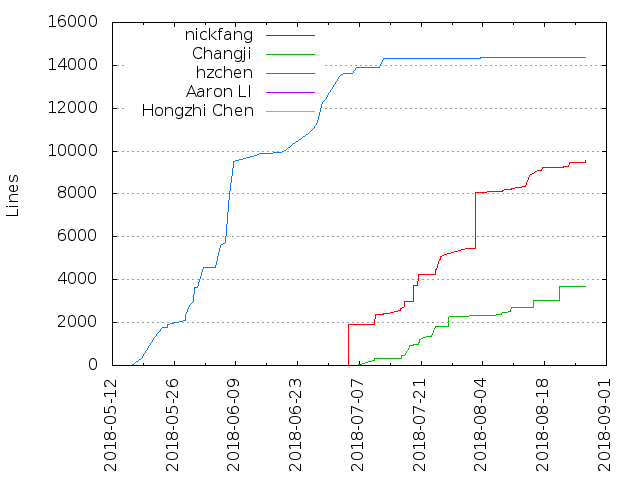
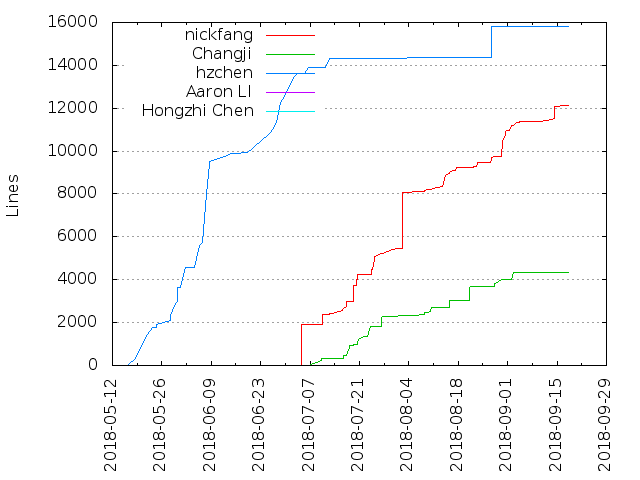
update log

diff --git a/gen/activity.html b/gen/activity.html
@@ -22,27 +22,27 @@
 
 <h2><a href="#weekly_activity" name="weekly_activity">Weekly activity</a></h2>
 
-<p>Last 32 weeks</p><table class="noborders"><tr><td style="text-align: center; vertical-align: bottom">0<div style="display: block; background-color: red; width: 20px; height: 1px"></div></td><td style="text-align: center; vertical-align: bottom">0<div style="display: block; background-color: red; width: 20px; height: 1px"></div></td><td style="text-align: center; vertical-align: bottom">0<div style="display: block; background-color: red; width: 20px; height: 1px"></div></td><td style="text-align: center; vertical-align: bottom">0<div style="display: block; background-color: red; width: 20px; height: 1px"></div></td><td style="text-align: center; vertical-align: bottom">0<div style="display: block; background-color: red; width: 20px; height: 1px"></div></td><td style="text-align: center; vertical-align: bottom">0<div style="display: block; background-color: red; width: 20px; height: 1px"></div></td><td style="text-align: center; vertical-align: bottom">0<div style="display: block; background-color: red; width: 20px; height: 1px"></div></td><td style="text-align: center; vertical-align: bottom">0<div style="display: block; background-color: red; width: 20px; height: 1px"></div></td><td style="text-align: center; vertical-align: bottom">0<div style="display: block; background-color: red; width: 20px; height: 1px"></div></td><td style="text-align: center; vertical-align: bottom">0<div style="display: block; background-color: red; width: 20px; height: 1px"></div></td><td style="text-align: center; vertical-align: bottom">0<div style="display: block; background-color: red; width: 20px; height: 1px"></div></td><td style="text-align: center; vertical-align: bottom">0<div style="display: block; background-color: red; width: 20px; height: 1px"></div></td><td style="text-align: center; vertical-align: bottom">0<div style="display: block; background-color: red; width: 20px; height: 1px"></div></td><td style="text-align: center; vertical-align: bottom">0<div style="display: block; background-color: red; width: 20px; height: 1px"></div></td><td style="text-align: center; vertical-align: bottom">0<div style="display: block; background-color: red; width: 20px; height: 1px"></div></td><td style="text-align: center; vertical-align: bottom">0<div style="display: block; background-color: red; width: 20px; height: 1px"></div></td><td style="text-align: center; vertical-align: bottom">5<div style="display: block; background-color: red; width: 20px; height: 33px"></div></td><td style="text-align: center; vertical-align: bottom">4<div style="display: block; background-color: red; width: 20px; height: 26px"></div></td><td style="text-align: center; vertical-align: bottom">7<div style="display: block; background-color: red; width: 20px; height: 46px"></div></td><td style="text-align: center; vertical-align: bottom">7<div style="display: block; background-color: red; width: 20px; height: 46px"></div></td><td style="text-align: center; vertical-align: bottom">3<div style="display: block; background-color: red; width: 20px; height: 20px"></div></td><td style="text-align: center; vertical-align: bottom">4<div style="display: block; background-color: red; width: 20px; height: 26px"></div></td><td style="text-align: center; vertical-align: bottom">6<div style="display: block; background-color: red; width: 20px; height: 40px"></div></td><td style="text-align: center; vertical-align: bottom">20<div style="display: block; background-color: red; width: 20px; height: 133px"></div></td><td style="text-align: center; vertical-align: bottom">18<div style="display: block; background-color: red; width: 20px; height: 120px"></div></td><td style="text-align: center; vertical-align: bottom">30<div style="display: block; background-color: red; width: 20px; height: 200px"></div></td><td style="text-align: center; vertical-align: bottom">22<div style="display: block; background-color: red; width: 20px; height: 146px"></div></td><td style="text-align: center; vertical-align: bottom">18<div style="display: block; background-color: red; width: 20px; height: 120px"></div></td><td style="text-align: center; vertical-align: bottom">14<div style="display: block; background-color: red; width: 20px; height: 93px"></div></td><td style="text-align: center; vertical-align: bottom">13<div style="display: block; background-color: red; width: 20px; height: 86px"></div></td><td style="text-align: center; vertical-align: bottom">15<div style="display: block; background-color: red; width: 20px; height: 100px"></div></td><td style="text-align: center; vertical-align: bottom">4<div style="display: block; background-color: red; width: 20px; height: 26px"></div></td></tr><tr><td>32</td><td>31</td><td>30</td><td>29</td><td>28</td><td>27</td><td>26</td><td>25</td><td>24</td><td>23</td><td>22</td><td>21</td><td>20</td><td>19</td><td>18</td><td>17</td><td>16</td><td>15</td><td>14</td><td>13</td><td>12</td><td>11</td><td>10</td><td>9</td><td>8</td><td>7</td><td>6</td><td>5</td><td>4</td><td>3</td><td>2</td><td>1</td></tr></table>
+<p>Last 32 weeks</p><table class="noborders"><tr><td style="text-align: center; vertical-align: bottom">0<div style="display: block; background-color: red; width: 20px; height: 1px"></div></td><td style="text-align: center; vertical-align: bottom">0<div style="display: block; background-color: red; width: 20px; height: 1px"></div></td><td style="text-align: center; vertical-align: bottom">0<div style="display: block; background-color: red; width: 20px; height: 1px"></div></td><td style="text-align: center; vertical-align: bottom">0<div style="display: block; background-color: red; width: 20px; height: 1px"></div></td><td style="text-align: center; vertical-align: bottom">0<div style="display: block; background-color: red; width: 20px; height: 1px"></div></td><td style="text-align: center; vertical-align: bottom">0<div style="display: block; background-color: red; width: 20px; height: 1px"></div></td><td style="text-align: center; vertical-align: bottom">0<div style="display: block; background-color: red; width: 20px; height: 1px"></div></td><td style="text-align: center; vertical-align: bottom">0<div style="display: block; background-color: red; width: 20px; height: 1px"></div></td><td style="text-align: center; vertical-align: bottom">0<div style="display: block; background-color: red; width: 20px; height: 1px"></div></td><td style="text-align: center; vertical-align: bottom">0<div style="display: block; background-color: red; width: 20px; height: 1px"></div></td><td style="text-align: center; vertical-align: bottom">0<div style="display: block; background-color: red; width: 20px; height: 1px"></div></td><td style="text-align: center; vertical-align: bottom">0<div style="display: block; background-color: red; width: 20px; height: 1px"></div></td><td style="text-align: center; vertical-align: bottom">0<div style="display: block; background-color: red; width: 20px; height: 1px"></div></td><td style="text-align: center; vertical-align: bottom">5<div style="display: block; background-color: red; width: 20px; height: 33px"></div></td><td style="text-align: center; vertical-align: bottom">4<div style="display: block; background-color: red; width: 20px; height: 26px"></div></td><td style="text-align: center; vertical-align: bottom">7<div style="display: block; background-color: red; width: 20px; height: 46px"></div></td><td style="text-align: center; vertical-align: bottom">7<div style="display: block; background-color: red; width: 20px; height: 46px"></div></td><td style="text-align: center; vertical-align: bottom">3<div style="display: block; background-color: red; width: 20px; height: 20px"></div></td><td style="text-align: center; vertical-align: bottom">4<div style="display: block; background-color: red; width: 20px; height: 26px"></div></td><td style="text-align: center; vertical-align: bottom">6<div style="display: block; background-color: red; width: 20px; height: 40px"></div></td><td style="text-align: center; vertical-align: bottom">20<div style="display: block; background-color: red; width: 20px; height: 133px"></div></td><td style="text-align: center; vertical-align: bottom">18<div style="display: block; background-color: red; width: 20px; height: 120px"></div></td><td style="text-align: center; vertical-align: bottom">30<div style="display: block; background-color: red; width: 20px; height: 200px"></div></td><td style="text-align: center; vertical-align: bottom">22<div style="display: block; background-color: red; width: 20px; height: 146px"></div></td><td style="text-align: center; vertical-align: bottom">18<div style="display: block; background-color: red; width: 20px; height: 120px"></div></td><td style="text-align: center; vertical-align: bottom">14<div style="display: block; background-color: red; width: 20px; height: 93px"></div></td><td style="text-align: center; vertical-align: bottom">13<div style="display: block; background-color: red; width: 20px; height: 86px"></div></td><td style="text-align: center; vertical-align: bottom">15<div style="display: block; background-color: red; width: 20px; height: 100px"></div></td><td style="text-align: center; vertical-align: bottom">27<div style="display: block; background-color: red; width: 20px; height: 180px"></div></td><td style="text-align: center; vertical-align: bottom">6<div style="display: block; background-color: red; width: 20px; height: 40px"></div></td><td style="text-align: center; vertical-align: bottom">7<div style="display: block; background-color: red; width: 20px; height: 46px"></div></td><td style="text-align: center; vertical-align: bottom">2<div style="display: block; background-color: red; width: 20px; height: 13px"></div></td></tr><tr><td>32</td><td>31</td><td>30</td><td>29</td><td>28</td><td>27</td><td>26</td><td>25</td><td>24</td><td>23</td><td>22</td><td>21</td><td>20</td><td>19</td><td>18</td><td>17</td><td>16</td><td>15</td><td>14</td><td>13</td><td>12</td><td>11</td><td>10</td><td>9</td><td>8</td><td>7</td><td>6</td><td>5</td><td>4</td><td>3</td><td>2</td><td>1</td></tr></table>
 <h2><a href="#hour_of_day" name="hour_of_day">Hour of Day</a></h2>
 
 <table><tr><th>Hour</th><th>0</th><th>1</th><th>2</th><th>3</th><th>4</th><th>5</th><th>6</th><th>7</th><th>8</th><th>9</th><th>10</th><th>11</th><th>12</th><th>13</th><th>14</th><th>15</th><th>16</th><th>17</th><th>18</th><th>19</th><th>20</th><th>21</th><th>22</th><th>23</th></tr>
-<tr><th>Commits</th><td>0</td><td>0</td><td>0</td><td>0</td><td>0</td><td>0</td><td>0</td><td>0</td><td>0</td><td>0</td><td style="background-color: rgb(131, 0, 0)">1</td><td style="background-color: rgb(131, 0, 0)">1</td><td style="background-color: rgb(159, 0, 0)">7</td><td style="background-color: rgb(204, 0, 0)">17</td><td style="background-color: rgb(195, 0, 0)">15</td><td style="background-color: rgb(241, 0, 0)">25</td><td style="background-color: rgb(200, 0, 0)">16</td><td style="background-color: rgb(232, 0, 0)">23</td><td style="background-color: rgb(181, 0, 0)">12</td><td style="background-color: rgb(255, 0, 0)">28</td><td style="background-color: rgb(236, 0, 0)">24</td><td style="background-color: rgb(213, 0, 0)">19</td><td>0</td><td style="background-color: rgb(136, 0, 0)">2</td></tr>
-<tr><th>%</th><td>0.00</td><td>0.00</td><td>0.00</td><td>0.00</td><td>0.00</td><td>0.00</td><td>0.00</td><td>0.00</td><td>0.00</td><td>0.00</td><td style="background-color: rgb(131, 0, 0)">0.53</td><td style="background-color: rgb(131, 0, 0)">0.53</td><td style="background-color: rgb(159, 0, 0)">3.68</td><td style="background-color: rgb(204, 0, 0)">8.95</td><td style="background-color: rgb(195, 0, 0)">7.89</td><td style="background-color: rgb(241, 0, 0)">13.16</td><td style="background-color: rgb(200, 0, 0)">8.42</td><td style="background-color: rgb(232, 0, 0)">12.11</td><td style="background-color: rgb(181, 0, 0)">6.32</td><td style="background-color: rgb(255, 0, 0)">14.74</td><td style="background-color: rgb(236, 0, 0)">12.63</td><td style="background-color: rgb(213, 0, 0)">10.00</td><td>0.00</td><td style="background-color: rgb(136, 0, 0)">1.05</td></tr></table><img src="hour_of_day.png" alt="Hour of Day" />
+<tr><th>Commits</th><td>0</td><td>0</td><td>0</td><td>0</td><td>0</td><td>0</td><td>0</td><td>0</td><td>0</td><td>0</td><td style="background-color: rgb(130, 0, 0)">1</td><td style="background-color: rgb(142, 0, 0)">4</td><td style="background-color: rgb(158, 0, 0)">8</td><td style="background-color: rgb(208, 0, 0)">21</td><td style="background-color: rgb(200, 0, 0)">19</td><td style="background-color: rgb(239, 0, 0)">29</td><td style="background-color: rgb(196, 0, 0)">18</td><td style="background-color: rgb(255, 0, 0)">33</td><td style="background-color: rgb(177, 0, 0)">13</td><td style="background-color: rgb(243, 0, 0)">30</td><td style="background-color: rgb(231, 0, 0)">27</td><td style="background-color: rgb(208, 0, 0)">21</td><td style="background-color: rgb(134, 0, 0)">2</td><td style="background-color: rgb(134, 0, 0)">2</td></tr>
+<tr><th>%</th><td>0.00</td><td>0.00</td><td>0.00</td><td>0.00</td><td>0.00</td><td>0.00</td><td>0.00</td><td>0.00</td><td>0.00</td><td>0.00</td><td style="background-color: rgb(130, 0, 0)">0.44</td><td style="background-color: rgb(142, 0, 0)">1.75</td><td style="background-color: rgb(158, 0, 0)">3.51</td><td style="background-color: rgb(208, 0, 0)">9.21</td><td style="background-color: rgb(200, 0, 0)">8.33</td><td style="background-color: rgb(239, 0, 0)">12.72</td><td style="background-color: rgb(196, 0, 0)">7.89</td><td style="background-color: rgb(255, 0, 0)">14.47</td><td style="background-color: rgb(177, 0, 0)">5.70</td><td style="background-color: rgb(243, 0, 0)">13.16</td><td style="background-color: rgb(231, 0, 0)">11.84</td><td style="background-color: rgb(208, 0, 0)">9.21</td><td style="background-color: rgb(134, 0, 0)">0.88</td><td style="background-color: rgb(134, 0, 0)">0.88</td></tr></table><img src="hour_of_day.png" alt="Hour of Day" />
 <h2><a href="#day_of_week" name="day_of_week">Day of Week</a></h2>
 
-<div class="vtable"><table><tr><th>Day</th><th>Total (%)</th></tr><tr><th>Mon</th><td>26 (13.68%)</td></tr><tr><th>Tue</th><td>32 (16.84%)</td></tr><tr><th>Wed</th><td>47 (24.74%)</td></tr><tr><th>Thu</th><td>42 (22.11%)</td></tr><tr><th>Fri</th><td>42 (22.11%)</td></tr><tr><th>Sat</th><td>0</td></tr><tr><th>Sun</th><td>1 (0.53%)</td></tr></table></div><img src="day_of_week.png" alt="Day of Week" />
+<div class="vtable"><table><tr><th>Day</th><th>Total (%)</th></tr><tr><th>Mon</th><td>34 (14.91%)</td></tr><tr><th>Tue</th><td>41 (17.98%)</td></tr><tr><th>Wed</th><td>48 (21.05%)</td></tr><tr><th>Thu</th><td>45 (19.74%)</td></tr><tr><th>Fri</th><td>49 (21.49%)</td></tr><tr><th>Sat</th><td>5 (2.19%)</td></tr><tr><th>Sun</th><td>6 (2.63%)</td></tr></table></div><img src="day_of_week.png" alt="Day of Week" />
 <h2><a href="#hour_of_week" name="hour_of_week">Hour of Week</a></h2>
 
-<table><tr><th>Weekday</th><th>0</th><th>1</th><th>2</th><th>3</th><th>4</th><th>5</th><th>6</th><th>7</th><th>8</th><th>9</th><th>10</th><th>11</th><th>12</th><th>13</th><th>14</th><th>15</th><th>16</th><th>17</th><th>18</th><th>19</th><th>20</th><th>21</th><th>22</th><th>23</th></tr><tr><th>Mon</th><td></td><td></td><td></td><td></td><td></td><td></td><td></td><td></td><td></td><td></td><td></td><td></td><td style="background-color: rgb(139, 0, 0)">1</td><td style="background-color: rgb(165, 0, 0)">3</td><td style="background-color: rgb(139, 0, 0)">1</td><td style="background-color: rgb(178, 0, 0)">4</td><td></td><td style="background-color: rgb(152, 0, 0)">2</td><td style="background-color: rgb(152, 0, 0)">2</td><td style="background-color: rgb(178, 0, 0)">4</td><td style="background-color: rgb(191, 0, 0)">5</td><td style="background-color: rgb(178, 0, 0)">4</td><td></td><td></td></tr><tr><th>Tue</th><td></td><td></td><td></td><td></td><td></td><td></td><td></td><td></td><td></td><td></td><td></td><td></td><td style="background-color: rgb(152, 0, 0)">2</td><td style="background-color: rgb(152, 0, 0)">2</td><td style="background-color: rgb(165, 0, 0)">3</td><td style="background-color: rgb(191, 0, 0)">5</td><td style="background-color: rgb(165, 0, 0)">3</td><td></td><td style="background-color: rgb(178, 0, 0)">4</td><td style="background-color: rgb(229, 0, 0)">8</td><td style="background-color: rgb(152, 0, 0)">2</td><td style="background-color: rgb(165, 0, 0)">3</td><td></td><td></td></tr><tr><th>Wed</th><td></td><td></td><td></td><td></td><td></td><td></td><td></td><td></td><td></td><td></td><td></td><td></td><td></td><td style="background-color: rgb(242, 0, 0)">9</td><td style="background-color: rgb(152, 0, 0)">2</td><td style="background-color: rgb(165, 0, 0)">3</td><td style="background-color: rgb(178, 0, 0)">4</td><td style="background-color: rgb(216, 0, 0)">7</td><td style="background-color: rgb(165, 0, 0)">3</td><td style="background-color: rgb(229, 0, 0)">8</td><td style="background-color: rgb(178, 0, 0)">4</td><td style="background-color: rgb(216, 0, 0)">7</td><td></td><td></td></tr><tr><th>Thu</th><td></td><td></td><td></td><td></td><td></td><td></td><td></td><td></td><td></td><td></td><td style="background-color: rgb(139, 0, 0)">1</td><td></td><td style="background-color: rgb(139, 0, 0)">1</td><td></td><td style="background-color: rgb(203, 0, 0)">6</td><td style="background-color: rgb(255, 0, 0)">10</td><td style="background-color: rgb(191, 0, 0)">5</td><td style="background-color: rgb(229, 0, 0)">8</td><td style="background-color: rgb(152, 0, 0)">2</td><td style="background-color: rgb(152, 0, 0)">2</td><td style="background-color: rgb(203, 0, 0)">6</td><td style="background-color: rgb(139, 0, 0)">1</td><td></td><td></td></tr><tr><th>Fri</th><td></td><td></td><td></td><td></td><td></td><td></td><td></td><td></td><td></td><td></td><td></td><td style="background-color: rgb(139, 0, 0)">1</td><td style="background-color: rgb(165, 0, 0)">3</td><td style="background-color: rgb(165, 0, 0)">3</td><td style="background-color: rgb(165, 0, 0)">3</td><td style="background-color: rgb(152, 0, 0)">2</td><td style="background-color: rgb(178, 0, 0)">4</td><td style="background-color: rgb(203, 0, 0)">6</td><td style="background-color: rgb(139, 0, 0)">1</td><td style="background-color: rgb(203, 0, 0)">6</td><td style="background-color: rgb(216, 0, 0)">7</td><td style="background-color: rgb(178, 0, 0)">4</td><td></td><td style="background-color: rgb(152, 0, 0)">2</td></tr><tr><th>Sat</th><td></td><td></td><td></td><td></td><td></td><td></td><td></td><td></td><td></td><td></td><td></td><td></td><td></td><td></td><td></td><td></td><td></td><td></td><td></td><td></td><td></td><td></td><td></td><td></td></tr><tr><th>Sun</th><td></td><td></td><td></td><td></td><td></td><td></td><td></td><td></td><td></td><td></td><td></td><td></td><td></td><td></td><td></td><td style="background-color: rgb(139, 0, 0)">1</td><td></td><td></td><td></td><td></td><td></td><td></td><td></td><td></td></tr></table>
+<table><tr><th>Weekday</th><th>0</th><th>1</th><th>2</th><th>3</th><th>4</th><th>5</th><th>6</th><th>7</th><th>8</th><th>9</th><th>10</th><th>11</th><th>12</th><th>13</th><th>14</th><th>15</th><th>16</th><th>17</th><th>18</th><th>19</th><th>20</th><th>21</th><th>22</th><th>23</th></tr><tr><th>Mon</th><td></td><td></td><td></td><td></td><td></td><td></td><td></td><td></td><td></td><td></td><td></td><td></td><td style="background-color: rgb(139, 0, 0)">1</td><td style="background-color: rgb(165, 0, 0)">3</td><td style="background-color: rgb(139, 0, 0)">1</td><td style="background-color: rgb(178, 0, 0)">4</td><td style="background-color: rgb(152, 0, 0)">2</td><td style="background-color: rgb(191, 0, 0)">5</td><td style="background-color: rgb(165, 0, 0)">3</td><td style="background-color: rgb(178, 0, 0)">4</td><td style="background-color: rgb(203, 0, 0)">6</td><td style="background-color: rgb(191, 0, 0)">5</td><td></td><td></td></tr><tr><th>Tue</th><td></td><td></td><td></td><td></td><td></td><td></td><td></td><td></td><td></td><td></td><td></td><td></td><td style="background-color: rgb(152, 0, 0)">2</td><td style="background-color: rgb(165, 0, 0)">3</td><td style="background-color: rgb(191, 0, 0)">5</td><td style="background-color: rgb(203, 0, 0)">6</td><td style="background-color: rgb(165, 0, 0)">3</td><td style="background-color: rgb(152, 0, 0)">2</td><td style="background-color: rgb(178, 0, 0)">4</td><td style="background-color: rgb(242, 0, 0)">9</td><td style="background-color: rgb(178, 0, 0)">4</td><td style="background-color: rgb(165, 0, 0)">3</td><td></td><td></td></tr><tr><th>Wed</th><td></td><td></td><td></td><td></td><td></td><td></td><td></td><td></td><td></td><td></td><td></td><td></td><td></td><td style="background-color: rgb(242, 0, 0)">9</td><td style="background-color: rgb(152, 0, 0)">2</td><td style="background-color: rgb(165, 0, 0)">3</td><td style="background-color: rgb(178, 0, 0)">4</td><td style="background-color: rgb(229, 0, 0)">8</td><td style="background-color: rgb(165, 0, 0)">3</td><td style="background-color: rgb(229, 0, 0)">8</td><td style="background-color: rgb(178, 0, 0)">4</td><td style="background-color: rgb(216, 0, 0)">7</td><td></td><td></td></tr><tr><th>Thu</th><td></td><td></td><td></td><td></td><td></td><td></td><td></td><td></td><td></td><td></td><td style="background-color: rgb(139, 0, 0)">1</td><td></td><td style="background-color: rgb(139, 0, 0)">1</td><td style="background-color: rgb(139, 0, 0)">1</td><td style="background-color: rgb(203, 0, 0)">6</td><td style="background-color: rgb(255, 0, 0)">10</td><td style="background-color: rgb(191, 0, 0)">5</td><td style="background-color: rgb(255, 0, 0)">10</td><td style="background-color: rgb(152, 0, 0)">2</td><td style="background-color: rgb(152, 0, 0)">2</td><td style="background-color: rgb(203, 0, 0)">6</td><td style="background-color: rgb(139, 0, 0)">1</td><td></td><td></td></tr><tr><th>Fri</th><td></td><td></td><td></td><td></td><td></td><td></td><td></td><td></td><td></td><td></td><td></td><td style="background-color: rgb(139, 0, 0)">1</td><td style="background-color: rgb(178, 0, 0)">4</td><td style="background-color: rgb(165, 0, 0)">3</td><td style="background-color: rgb(191, 0, 0)">5</td><td style="background-color: rgb(165, 0, 0)">3</td><td style="background-color: rgb(178, 0, 0)">4</td><td style="background-color: rgb(216, 0, 0)">7</td><td style="background-color: rgb(139, 0, 0)">1</td><td style="background-color: rgb(216, 0, 0)">7</td><td style="background-color: rgb(216, 0, 0)">7</td><td style="background-color: rgb(191, 0, 0)">5</td><td></td><td style="background-color: rgb(152, 0, 0)">2</td></tr><tr><th>Sat</th><td></td><td></td><td></td><td></td><td></td><td></td><td></td><td></td><td></td><td></td><td></td><td></td><td></td><td style="background-color: rgb(152, 0, 0)">2</td><td></td><td style="background-color: rgb(152, 0, 0)">2</td><td></td><td style="background-color: rgb(139, 0, 0)">1</td><td></td><td></td><td></td><td></td><td></td><td></td></tr><tr><th>Sun</th><td></td><td></td><td></td><td></td><td></td><td></td><td></td><td></td><td></td><td></td><td></td><td style="background-color: rgb(165, 0, 0)">3</td><td></td><td></td><td></td><td style="background-color: rgb(139, 0, 0)">1</td><td></td><td></td><td></td><td></td><td></td><td></td><td style="background-color: rgb(152, 0, 0)">2</td><td></td></tr></table>
 <h2><a href="#month_of_year" name="month_of_year">Month of Year</a></h2>
 
-<div class="vtable"><table><tr><th>Month</th><th>Commits (%)</th></tr><tr><td>1</td><td>0 (0.00 %)</td></tr><tr><td>2</td><td>0 (0.00 %)</td></tr><tr><td>3</td><td>0 (0.00 %)</td></tr><tr><td>4</td><td>0 (0.00 %)</td></tr><tr><td>5</td><td>15 (7.89 %)</td></tr><tr><td>6</td><td>21 (11.05 %)</td></tr><tr><td>7</td><td>96 (50.53 %)</td></tr><tr><td>8</td><td>58 (30.53 %)</td></tr><tr><td>9</td><td>0 (0.00 %)</td></tr><tr><td>10</td><td>0 (0.00 %)</td></tr><tr><td>11</td><td>0 (0.00 %)</td></tr><tr><td>12</td><td>0 (0.00 %)</td></tr></table></div><img src="month_of_year.png" alt="Month of Year" />
+<div class="vtable"><table><tr><th>Month</th><th>Commits (%)</th></tr><tr><td>1</td><td>0 (0.00 %)</td></tr><tr><td>2</td><td>0 (0.00 %)</td></tr><tr><td>3</td><td>0 (0.00 %)</td></tr><tr><td>4</td><td>0 (0.00 %)</td></tr><tr><td>5</td><td>15 (6.58 %)</td></tr><tr><td>6</td><td>21 (9.21 %)</td></tr><tr><td>7</td><td>96 (42.11 %)</td></tr><tr><td>8</td><td>72 (31.58 %)</td></tr><tr><td>9</td><td>24 (10.53 %)</td></tr><tr><td>10</td><td>0 (0.00 %)</td></tr><tr><td>11</td><td>0 (0.00 %)</td></tr><tr><td>12</td><td>0 (0.00 %)</td></tr></table></div><img src="month_of_year.png" alt="Month of Year" />
 <h2><a href="#commits_by_year/month" name="commits_by_year/month">Commits by year/month</a></h2>
 
-<div class="vtable"><table><tr><th>Month</th><th>Commits</th><th>Lines added</th><th>Lines removed</th></tr><tr><td>2018-08</td><td>58</td><td>5595</td><td>1978</td></tr><tr><td>2018-07</td><td>96</td><td>11302</td><td>5626</td></tr><tr><td>2018-06</td><td>21</td><td>8864</td><td>5600</td></tr><tr><td>2018-05</td><td>15</td><td>3624</td><td>1471</td></tr></table></div><img src="commits_by_year_month.png" alt="Commits by year/month" />
+<div class="vtable"><table><tr><th>Month</th><th>Commits</th><th>Lines added</th><th>Lines removed</th></tr><tr><td>2018-09</td><td>24</td><td>1571</td><td>524</td></tr><tr><td>2018-08</td><td>72</td><td>8701</td><td>2820</td></tr><tr><td>2018-07</td><td>96</td><td>11302</td><td>5626</td></tr><tr><td>2018-06</td><td>21</td><td>8864</td><td>5600</td></tr><tr><td>2018-05</td><td>15</td><td>3624</td><td>1471</td></tr></table></div><img src="commits_by_year_month.png" alt="Commits by year/month" />
 <h2><a href="#commits_by_year" name="commits_by_year">Commits by Year</a></h2>
 
-<div class="vtable"><table><tr><th>Year</th><th>Commits (% of all)</th><th>Lines added</th><th>Lines removed</th></tr><tr><td>2018</td><td>190 (100.00%)</td><td>29385</td><td>14675</td></tr></table></div><img src="commits_by_year.png" alt="Commits by Year" />
+<div class="vtable"><table><tr><th>Year</th><th>Commits (% of all)</th><th>Lines added</th><th>Lines removed</th></tr><tr><td>2018</td><td>228 (100.00%)</td><td>34062</td><td>16041</td></tr></table></div><img src="commits_by_year.png" alt="Commits by Year" />
 <h2><a href="#commits_by_timezone" name="commits_by_timezone">Commits by Timezone</a></h2>
 
-<table><tr><th>Timezone</th><th>Commits</th><tr><th>+0000</th><td style="background-color: rgb(131, 0, 0)">6</td></tr><tr><th>+0800</th><td style="background-color: rgb(255, 0, 0)">184</td></tr></tr></table></body></html>
+<table><tr><th>Timezone</th><th>Commits</th><tr><th>+0000</th><td style="background-color: rgb(130, 0, 0)">6</td></tr><tr><th>+0800</th><td style="background-color: rgb(255, 0, 0)">222</td></tr></tr></table></body></html>

diff --git a/gen/authors.html b/gen/authors.html
@@ -22,7 +22,7 @@
 
 <h2><a href="#list_of_authors" name="list_of_authors">List of Authors</a></h2>
 
-<table class="authors sortable" id="authors"><tr><th>Author</th><th>Commits (%)</th><th>+ lines</th><th>- lines</th><th>First commit</th><th>Last commit</th><th class="unsortable">Age</th><th>Active days</th><th># by commits</th></tr><tr><td>nickfang</td><td>67 (35.26%)</td><td>9584</td><td>5090</td><td>2018-07-04</td><td>2018-08-27</td><td>53 days, 20:05:42</td><td>31</td><td>1</td></tr><tr><td>Changji</td><td>61 (32.11%)</td><td>3707</td><td>1107</td><td>2018-07-10</td><td>2018-08-27</td><td>48 days, 0:27:16</td><td>22</td><td>2</td></tr><tr><td>hzchen</td><td>59 (31.05%)</td><td>14355</td><td>8944</td><td>2018-05-16</td><td>2018-08-06</td><td>82 days, 7:16:18</td><td>40</td><td>3</td></tr><tr><td>Aaron LI</td><td>2 (1.05%)</td><td>0</td><td>0</td><td>2018-07-12</td><td>2018-07-12</td><td>0:00:19</td><td>1</td><td>4</td></tr><tr><td>Hongzhi Chen</td><td>1 (0.53%)</td><td>0</td><td>0</td><td>2018-05-16</td><td>2018-05-16</td><td>0:00:00</td><td>1</td><td>5</td></tr></table>
+<table class="authors sortable" id="authors"><tr><th>Author</th><th>Commits (%)</th><th>+ lines</th><th>- lines</th><th>First commit</th><th>Last commit</th><th class="unsortable">Age</th><th>Active days</th><th># by commits</th></tr><tr><td>nickfang</td><td>95 (41.67%)</td><td>12129</td><td>6094</td><td>2018-07-04</td><td>2018-09-18</td><td>75 days, 17:52:13</td><td>46</td><td>1</td></tr><tr><td>Changji</td><td>70 (30.70%)</td><td>4356</td><td>1460</td><td>2018-07-10</td><td>2018-09-04</td><td>56 days, 1:05:42</td><td>27</td><td>2</td></tr><tr><td>hzchen</td><td>60 (26.32%)</td><td>15802</td><td>8948</td><td>2018-05-16</td><td>2018-08-27</td><td>103 days, 3:00:42</td><td>41</td><td>3</td></tr><tr><td>Aaron LI</td><td>2 (0.88%)</td><td>0</td><td>0</td><td>2018-07-12</td><td>2018-07-12</td><td>0:00:19</td><td>1</td><td>4</td></tr><tr><td>Hongzhi Chen</td><td>1 (0.44%)</td><td>0</td><td>0</td><td>2018-05-16</td><td>2018-05-16</td><td>0:00:00</td><td>1</td><td>5</td></tr></table>
 <h2><a href="#cumulated_added_lines_of_code_per_author" name="cumulated_added_lines_of_code_per_author">Cumulated Added Lines of Code per Author</a></h2>
 
 <img src="lines_of_code_by_author.png" alt="Lines of code per Author" />
@@ -31,10 +31,10 @@
 <img src="commits_by_author.png" alt="Commits per Author" />
 <h2><a href="#author_of_month" name="author_of_month">Author of Month</a></h2>
 
-<table class="sortable" id="aom"><tr><th>Month</th><th>Author</th><th>Commits (%)</th><th class="unsortable">Next top 5</th><th>Number of authors</th></tr><tr><td>2018-08</td><td>nickfang</td><td>30 (51.72% of 58)</td><td>Changji, hzchen</td><td>3</td></tr><tr><td>2018-07</td><td>Changji</td><td>39 (40.62% of 96)</td><td>nickfang, hzchen, Aaron LI</td><td>4</td></tr><tr><td>2018-06</td><td>hzchen</td><td>21 (100.00% of 21)</td><td></td><td>1</td></tr><tr><td>2018-05</td><td>hzchen</td><td>14 (93.33% of 15)</td><td>Hongzhi Chen</td><td>2</td></tr></table>
+<table class="sortable" id="aom"><tr><th>Month</th><th>Author</th><th>Commits (%)</th><th class="unsortable">Next top 5</th><th>Number of authors</th></tr><tr><td>2018-09</td><td>nickfang</td><td>17 (70.83% of 24)</td><td>Changji</td><td>2</td></tr><tr><td>2018-08</td><td>nickfang</td><td>41 (56.94% of 72)</td><td>Changji, hzchen</td><td>3</td></tr><tr><td>2018-07</td><td>Changji</td><td>39 (40.62% of 96)</td><td>nickfang, hzchen, Aaron LI</td><td>4</td></tr><tr><td>2018-06</td><td>hzchen</td><td>21 (100.00% of 21)</td><td></td><td>1</td></tr><tr><td>2018-05</td><td>hzchen</td><td>14 (93.33% of 15)</td><td>Hongzhi Chen</td><td>2</td></tr></table>
 <h2><a href="#author_of_year" name="author_of_year">Author of Year</a></h2>
 
-<table class="sortable" id="aoy"><tr><th>Year</th><th>Author</th><th>Commits (%)</th><th class="unsortable">Next top 5</th><th>Number of authors</th></tr><tr><td>2018</td><td>nickfang</td><td>67 (35.26% of 190)</td><td>Changji, hzchen, Aaron LI, Hongzhi Chen</td><td>5</td></tr></table>
+<table class="sortable" id="aoy"><tr><th>Year</th><th>Author</th><th>Commits (%)</th><th class="unsortable">Next top 5</th><th>Number of authors</th></tr><tr><td>2018</td><td>nickfang</td><td>95 (41.67% of 228)</td><td>Changji, hzchen, Aaron LI, Hongzhi Chen</td><td>5</td></tr></table>
 <h2><a href="#commits_by_domains" name="commits_by_domains">Commits by Domains</a></h2>
 
-<div class="vtable"><table><tr><th>Domains</th><th>Total (%)</th></tr><tr><th>gmail.com</th><td>190 (100.00%)</td></tr></table></div><img src="domains.png" alt="Commits by Domains" /></body></html>
+<div class="vtable"><table><tr><th>Domains</th><th>Total (%)</th></tr><tr><th>gmail.com</th><td>228 (100.00%)</td></tr></table></div><img src="domains.png" alt="Commits by Domains" /></body></html>

diff --git a/gen/files.html b/gen/files.html
@@ -20,11 +20,11 @@
 </ul>
 </div>
 <dl>
-<dt>Total files</dt><dd>131</dd><dt>Total lines</dt><dd>14710</dd><dt>Average file size</dt><dd>5555.43 bytes</dd></dl>
+<dt>Total files</dt><dd>183</dd><dt>Total lines</dt><dd>18021</dd><dt>Average file size</dt><dd>4810.32 bytes</dd></dl>
 
 <h2><a href="#file_count_by_date" name="file_count_by_date">File count by date</a></h2>
 
 <img src="files_by_date.png" alt="Files by Date" />
 <h2><a href="#extensions" name="extensions">Extensions</a></h2>
 
-<table class="sortable" id="ext"><tr><th>Extension</th><th>Files (%)</th><th>Lines (%)</th><th>Lines/file</th></tr><tr><td></td><td>18 (13.74%)</td><td>202 (1.37%)</td><td>11</td></tr><tr><td>c</td><td>2 (1.53%)</td><td>1193 (8.11%)</td><td>596</td></tr><tr><td>cfg</td><td>2 (1.53%)</td><td>9 (0.06%)</td><td>4</td></tr><tr><td>cmake</td><td>4 (3.05%)</td><td>109 (0.74%)</td><td>27</td></tr><tr><td>cpp</td><td>21 (16.03%)</td><td>6697 (45.53%)</td><td>318</td></tr><tr><td>h</td><td>2 (1.53%)</td><td>518 (3.52%)</td><td>259</td></tr><tr><td>hpp</td><td>60 (45.80%)</td><td>11963 (81.33%)</td><td>199</td></tr><tr><td>ini</td><td>1 (0.76%)</td><td>35 (0.24%)</td><td>35</td></tr><tr><td>jpg</td><td>1 (0.76%)</td><td>806 (5.48%)</td><td>806</td></tr><tr><td>md</td><td>2 (1.53%)</td><td>40 (0.27%)</td><td>20</td></tr><tr><td>py</td><td>1 (0.76%)</td><td>26 (0.18%)</td><td>26</td></tr><tr><td>sh</td><td>3 (2.29%)</td><td>16 (0.11%)</td><td>5</td></tr><tr><td>tpp</td><td>3 (2.29%)</td><td>757 (5.15%)</td><td>252</td></tr><tr><td>txt</td><td>10 (7.63%)</td><td>141 (0.96%)</td><td>14</td></tr><tr><td>xml</td><td>1 (0.76%)</td><td>29 (0.20%)</td><td>29</td></tr></table></body></html>
+<table class="sortable" id="ext"><tr><th>Extension</th><th>Files (%)</th><th>Lines (%)</th><th>Lines/file</th></tr><tr><td></td><td>19 (10.38%)</td><td>208 (1.15%)</td><td>10</td></tr><tr><td>c</td><td>2 (1.09%)</td><td>1193 (6.62%)</td><td>596</td></tr><tr><td>cache</td><td>1 (0.55%)</td><td>41 (0.23%)</td><td>41</td></tr><tr><td>cfg</td><td>2 (1.09%)</td><td>9 (0.05%)</td><td>4</td></tr><tr><td>cmake</td><td>4 (2.19%)</td><td>109 (0.60%)</td><td>27</td></tr><tr><td>cpp</td><td>23 (12.57%)</td><td>7149 (39.67%)</td><td>310</td></tr><tr><td>css</td><td>1 (0.55%)</td><td>145 (0.80%)</td><td>145</td></tr><tr><td>dat</td><td>10 (5.46%)</td><td>665 (3.69%)</td><td>66</td></tr><tr><td>gif</td><td>3 (1.64%)</td><td>6 (0.03%)</td><td>2</td></tr><tr><td>h</td><td>2 (1.09%)</td><td>518 (2.87%)</td><td>259</td></tr><tr><td>hpp</td><td>66 (36.07%)</td><td>13321 (73.92%)</td><td>201</td></tr><tr><td>html</td><td>6 (3.28%)</td><td>184 (1.02%)</td><td>30</td></tr><tr><td>ini</td><td>1 (0.55%)</td><td>36 (0.20%)</td><td>36</td></tr><tr><td>jpg</td><td>1 (0.55%)</td><td>806 (4.47%)</td><td>806</td></tr><tr><td>js</td><td>1 (0.55%)</td><td>324 (1.80%)</td><td>324</td></tr><tr><td>md</td><td>2 (1.09%)</td><td>40 (0.22%)</td><td>20</td></tr><tr><td>plot</td><td>10 (5.46%)</td><td>118 (0.65%)</td><td>11</td></tr><tr><td>png</td><td>10 (5.46%)</td><td>177 (0.98%)</td><td>17</td></tr><tr><td>py</td><td>2 (1.09%)</td><td>80 (0.44%)</td><td>40</td></tr><tr><td>sh</td><td>3 (1.64%)</td><td>16 (0.09%)</td><td>5</td></tr><tr><td>tpp</td><td>3 (1.64%)</td><td>757 (4.20%)</td><td>252</td></tr><tr><td>txt</td><td>10 (5.46%)</td><td>143 (0.79%)</td><td>14</td></tr><tr><td>xml</td><td>1 (0.55%)</td><td>29 (0.16%)</td><td>29</td></tr></table></body></html>

diff --git a/gen/index.html b/gen/index.html
@@ -19,5 +19,5 @@
 <li><a href="tags.html">Tags</a></li>
 </ul>
 </div>
-<dl><dt>Project name</dt><dd>GQuery</dd><dt>Generated</dt><dd>2018-08-27 16:42:51 (in 1 seconds)</dd><dt>Generator</dt><dd><a href="http://gitstats.sourceforge.net/">GitStats</a> (version 2011.11.08), git version 1.7.9.5, gnuplot 4.4 patchlevel 3</dd><dt>Report Period</dt><dd>2018-05-16 13:38:45 to 2018-08-27 15:49:40</dd><dt>Age</dt><dd>104 days, 66 active days (63.46%)</dd><dt>Total Files</dt><dd>131</dd><dt>Total Lines of Code</dt><dd>14710 (29385 added, 14675 removed)</dd><dt>Total Commits</dt><dd>190 (average 2.9 commits per active day, 1.8 per all days)</dd><dt>Authors</dt><dd>5 (average 38.0 commits per author)</dd></dl></body>
+<dl><dt>Project name</dt><dd>GQuery</dd><dt>Generated</dt><dd>2018-09-21 12:45:15 (in 2 seconds)</dd><dt>Generator</dt><dd><a href="http://gitstats.sourceforge.net/">GitStats</a> (version 2011.11.08), git version 1.7.9.5, gnuplot 4.4 patchlevel 3</dd><dt>Report Period</dt><dd>2018-05-16 13:38:45 to 2018-09-18 13:36:11</dd><dt>Age</dt><dd>125 days, 81 active days (64.80%)</dd><dt>Total Files</dt><dd>183</dd><dt>Total Lines of Code</dt><dd>18021 (34062 added, 16041 removed)</dd><dt>Total Commits</dt><dd>228 (average 2.8 commits per active day, 1.8 per all days)</dd><dt>Authors</dt><dd>5 (average 45.6 commits per author)</dd></dl></body>
 </html>

diff --git a/gen/lines.html b/gen/lines.html
@@ -20,7 +20,7 @@
 </ul>
 </div>
 <dl>
-<dt>Total lines</dt><dd>14710</dd></dl>
+<dt>Total lines</dt><dd>18021</dd></dl>
 
 <h2><a href="#lines_of_code" name="lines_of_code">Lines of Code</a></h2>
 
